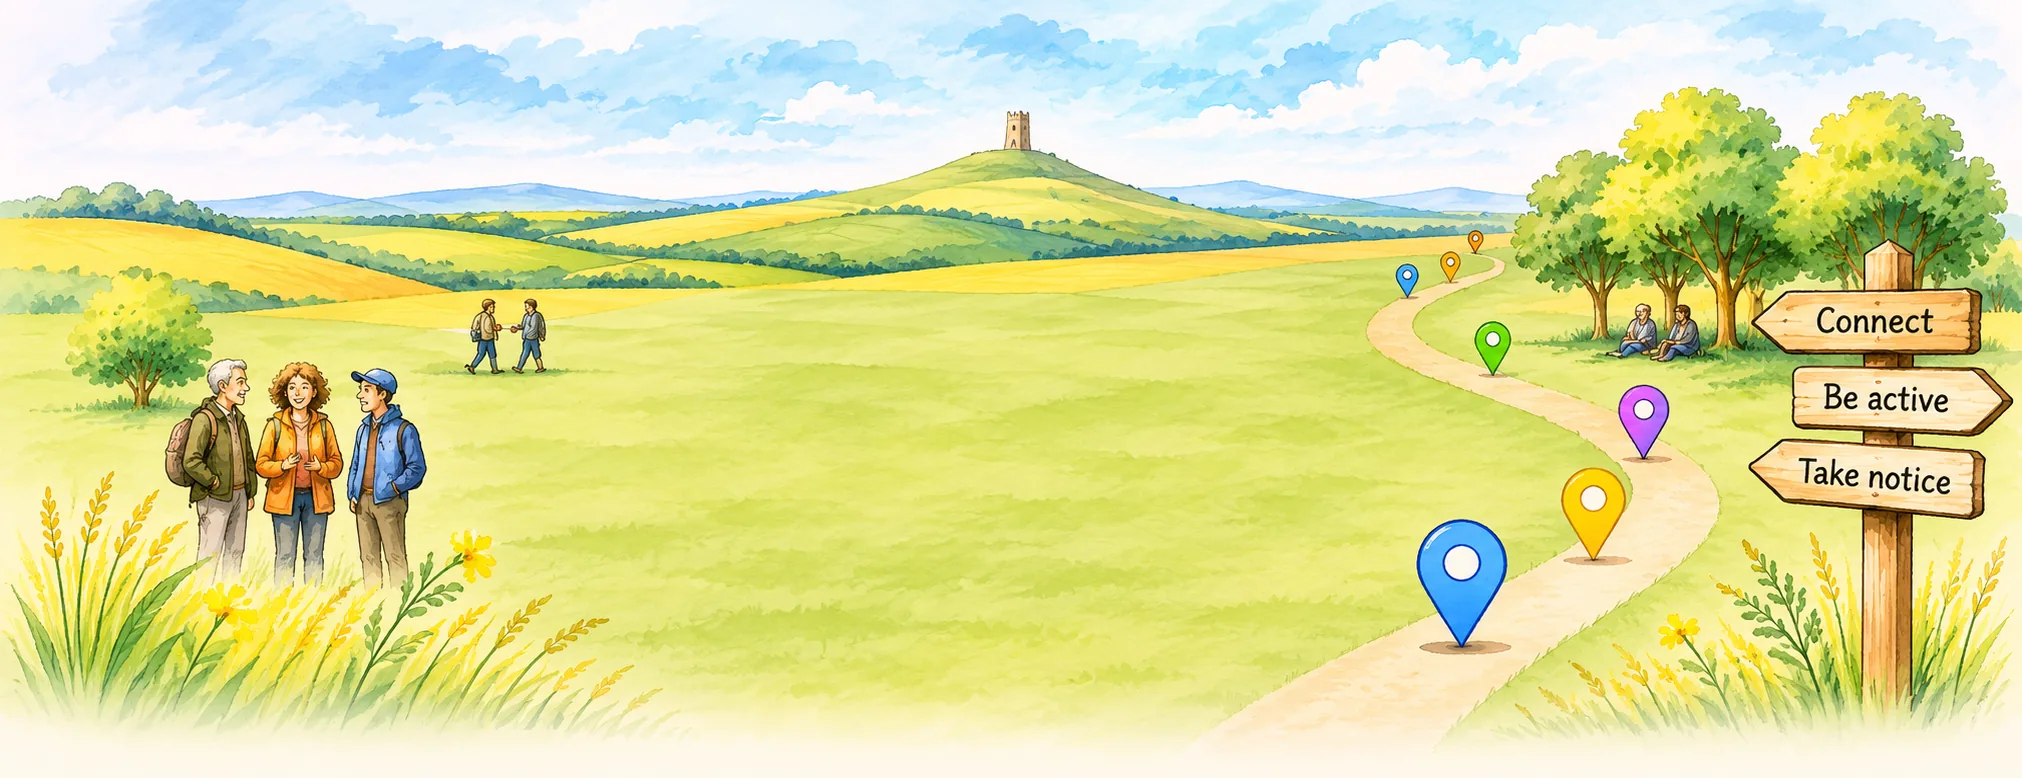
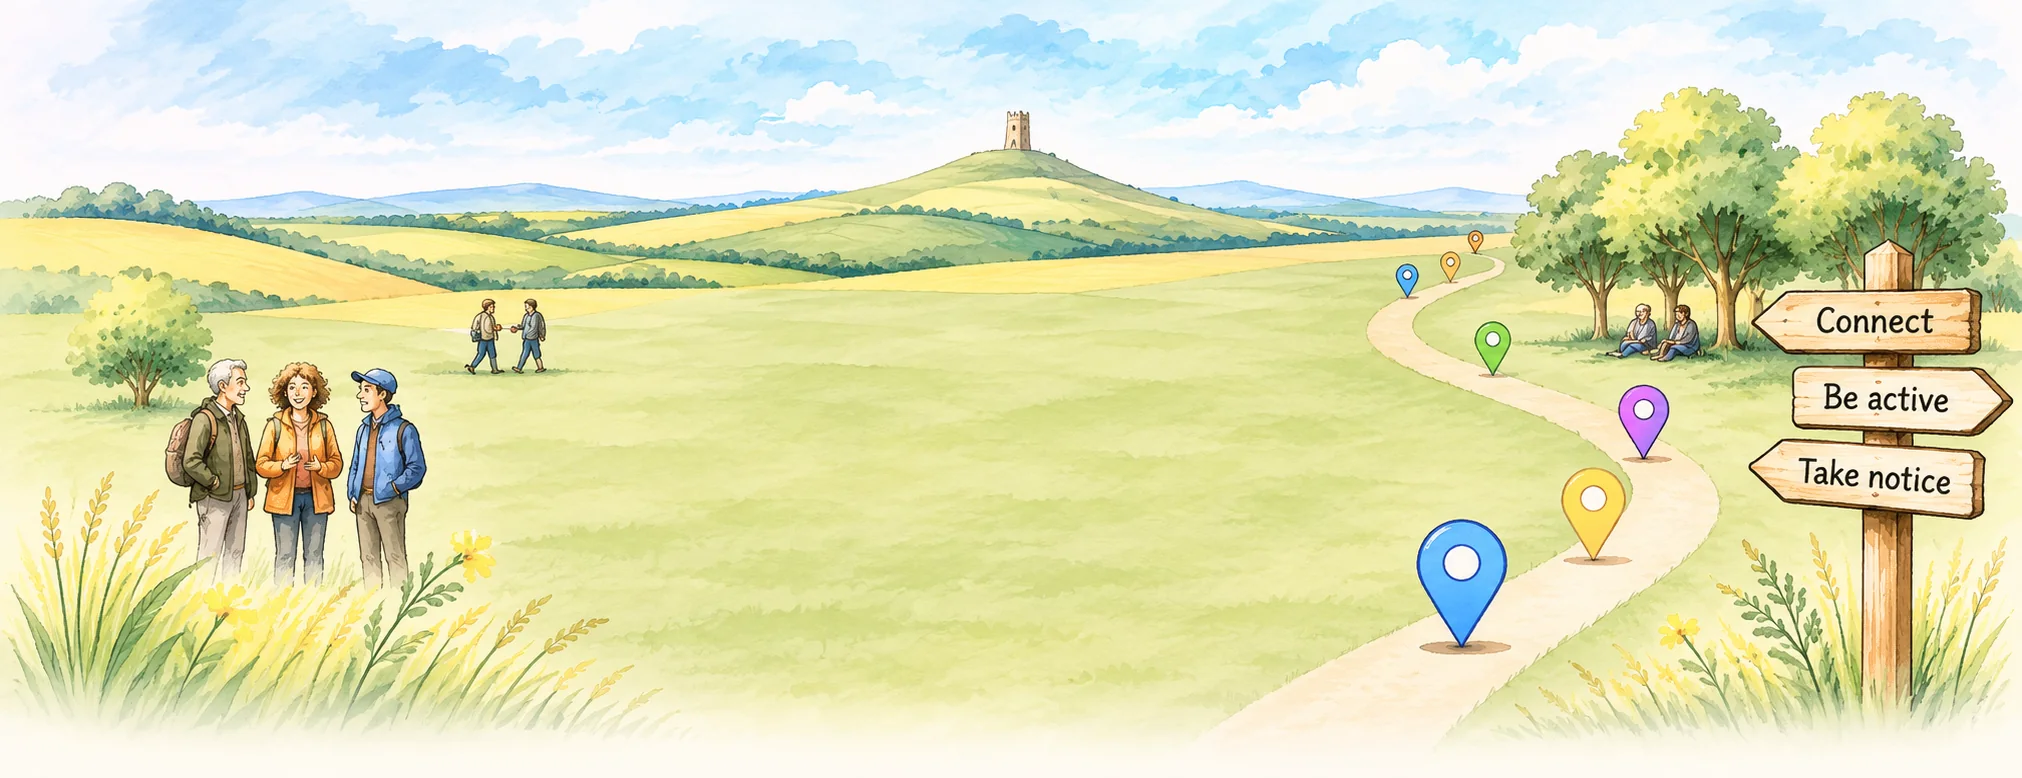
Next design: one palette across the landing page
Next design: one palette across the landing page and directory: the main picture 35% softer, a richer, warmer header strip for /next/ only (banner-next.webp; the live site keeps banner.webp), and one warm sage (--sage) for the filter boxes and the landing band

diff --git a/docs/next/about/index.html b/docs/next/about/index.html
@@ -1136,10 +1136,11 @@ html.short #mapwrap { height: 100vh; }
 }
 
 /* ---------- Colours: light cream page and header, darker cream cards with a warm outline ---------- */
-:root { --cream: #FFFCF7; --card: #F4EEE4; --edge: #CFC3B1; --line: #E6DED2; }
+:root { --cream: #FFFCF7; --card: #F4EEE4; --edge: #CFC3B1; --line: #E6DED2; --sage: #ECEFDC; }   /* (--sage: the warm meadow green of the panels: the filter boxes and the landing page's band, one colour) */
+:root { --strip: url("/assets/banner-next.webp"); }   /* (this design's header strip: the live site keeps banner.webp) */
 header.top { background: var(--cream); border-bottom: 0; }
 /* The filter boxes keep their green tint against the cream (a touch stronger than on white, which made them look grey) */
-.q, .toggle { background: #E7F0EA; }
+.q, .toggle { background: var(--sage); }
 .q.on { background: #FFFFFF; }
 #mapwrap { margin: 14px 0 16px; border: 1px solid var(--edge); border-radius: 16px; overflow: hidden; }
 #map { background: #F3EFE6; }
@@ -1478,7 +1479,7 @@ body.landing header.top, body.landing #hdr-home { display: none; }
 .htopic:hover { border-color: var(--b700); }
 .htopic svg { width: 17px; height: 17px; color: var(--b600); }
 /* The ways in */
-.hways { display: grid; grid-template-columns: repeat(4, minmax(0, 1fr)); column-gap: 12px; margin: 46px 0 0; padding: 34px max(24px, calc(50% - 680px)) 30px; background: linear-gradient(to bottom, var(--b50), #EEF3EC); border-radius: 50% 50% 0 0 / 28px 28px 0 0; }
+.hways { display: grid; grid-template-columns: repeat(4, minmax(0, 1fr)); column-gap: 12px; margin: 46px 0 0; padding: 34px max(24px, calc(50% - 680px)) 30px; background: var(--sage); border-radius: 50% 50% 0 0 / 28px 28px 0 0; }
 .hway { display: flex; gap: 14px; padding: 14px 18px; text-decoration: none; color: inherit; border-radius: 16px; transition: background 0.15s; }
 .hway:hover { background: rgba(47, 84, 65, 0.07); }
 .hway > svg { width: 34px; height: 34px; flex: none; color: var(--b600); margin-top: 2px; }
@@ -1617,7 +1618,7 @@ body.landing footer.help { padding-block: 14px calc(14px + env(safe-area-inset-b
   body.landing .crisis > div { display: none; }
   body.landing .crisis .exit { background: rgba(15, 23, 42, 0.82); border-color: transparent; padding: 7px 12px; font-size: 13px; }
   body.landing .hways { padding-bottom: 22px; }
-  body.landing .hways { box-shadow: 0 50vh 0 50vh #EEF3EC; }   /* (the sage band carries on to the foot of a tall window, as a footer: painted only, so the page doesn't grow) */
+  body.landing .hways { box-shadow: 0 50vh 0 50vh var(--sage); }   /* (the sage band carries on to the foot of a tall window, as a footer: painted only, so the page doesn't grow) */
 }
 .hway span span { display: block; max-width: 300px; text-wrap: balance; }   /* (each description on two even lines) */
 @media (min-width: 701px) and (max-height: 600px) { .hway span span { display: none; } }
@@ -3126,7 +3127,7 @@ function renderAbout() {
     </section>
     </div></div>
     <p class="small">Service information belongs to the providers listed. Map data © <a href="https://www.openstreetmap.org/copyright" target="_blank" rel="noopener">OpenStreetMap</a> contributors, © <a href="https://carto.com/attributions" target="_blank" rel="noopener">CARTO</a>.</p>
-    <p class="small" id="site-version">Version: next 2026-11-26 22:57</p>
+    <p class="small" id="site-version">Version: next 2026-11-26 23:46</p>
   </article>`;
 }
 /* ---------- Places: the town listings, as a tab of the directory ----------

diff --git a/docs/next/courses/index.html b/docs/next/courses/index.html
@@ -1136,10 +1136,11 @@ html.short #mapwrap { height: 100vh; }
 }
 
 /* ---------- Colours: light cream page and header, darker cream cards with a warm outline ---------- */
-:root { --cream: #FFFCF7; --card: #F4EEE4; --edge: #CFC3B1; --line: #E6DED2; }
+:root { --cream: #FFFCF7; --card: #F4EEE4; --edge: #CFC3B1; --line: #E6DED2; --sage: #ECEFDC; }   /* (--sage: the warm meadow green of the panels: the filter boxes and the landing page's band, one colour) */
+:root { --strip: url("/assets/banner-next.webp"); }   /* (this design's header strip: the live site keeps banner.webp) */
 header.top { background: var(--cream); border-bottom: 0; }
 /* The filter boxes keep their green tint against the cream (a touch stronger than on white, which made them look grey) */
-.q, .toggle { background: #E7F0EA; }
+.q, .toggle { background: var(--sage); }
 .q.on { background: #FFFFFF; }
 #mapwrap { margin: 14px 0 16px; border: 1px solid var(--edge); border-radius: 16px; overflow: hidden; }
 #map { background: #F3EFE6; }
@@ -1478,7 +1479,7 @@ body.landing header.top, body.landing #hdr-home { display: none; }
 .htopic:hover { border-color: var(--b700); }
 .htopic svg { width: 17px; height: 17px; color: var(--b600); }
 /* The ways in */
-.hways { display: grid; grid-template-columns: repeat(4, minmax(0, 1fr)); column-gap: 12px; margin: 46px 0 0; padding: 34px max(24px, calc(50% - 680px)) 30px; background: linear-gradient(to bottom, var(--b50), #EEF3EC); border-radius: 50% 50% 0 0 / 28px 28px 0 0; }
+.hways { display: grid; grid-template-columns: repeat(4, minmax(0, 1fr)); column-gap: 12px; margin: 46px 0 0; padding: 34px max(24px, calc(50% - 680px)) 30px; background: var(--sage); border-radius: 50% 50% 0 0 / 28px 28px 0 0; }
 .hway { display: flex; gap: 14px; padding: 14px 18px; text-decoration: none; color: inherit; border-radius: 16px; transition: background 0.15s; }
 .hway:hover { background: rgba(47, 84, 65, 0.07); }
 .hway > svg { width: 34px; height: 34px; flex: none; color: var(--b600); margin-top: 2px; }
@@ -1617,7 +1618,7 @@ body.landing footer.help { padding-block: 14px calc(14px + env(safe-area-inset-b
   body.landing .crisis > div { display: none; }
   body.landing .crisis .exit { background: rgba(15, 23, 42, 0.82); border-color: transparent; padding: 7px 12px; font-size: 13px; }
   body.landing .hways { padding-bottom: 22px; }
-  body.landing .hways { box-shadow: 0 50vh 0 50vh #EEF3EC; }   /* (the sage band carries on to the foot of a tall window, as a footer: painted only, so the page doesn't grow) */
+  body.landing .hways { box-shadow: 0 50vh 0 50vh var(--sage); }   /* (the sage band carries on to the foot of a tall window, as a footer: painted only, so the page doesn't grow) */
 }
 .hway span span { display: block; max-width: 300px; text-wrap: balance; }   /* (each description on two even lines) */
 @media (min-width: 701px) and (max-height: 600px) { .hway span span { display: none; } }
@@ -3126,7 +3127,7 @@ function renderAbout() {
     </section>
     </div></div>
     <p class="small">Service information belongs to the providers listed. Map data © <a href="https://www.openstreetmap.org/copyright" target="_blank" rel="noopener">OpenStreetMap</a> contributors, © <a href="https://carto.com/attributions" target="_blank" rel="noopener">CARTO</a>.</p>
-    <p class="small" id="site-version">Version: next 2026-11-26 22:57</p>
+    <p class="small" id="site-version">Version: next 2026-11-26 23:46</p>
   </article>`;
 }
 /* ---------- Places: the town listings, as a tab of the directory ----------

diff --git a/docs/next/directory/index.html b/docs/next/directory/index.html
@@ -1136,10 +1136,11 @@ html.short #mapwrap { height: 100vh; }
 }
 
 /* ---------- Colours: light cream page and header, darker cream cards with a warm outline ---------- */
-:root { --cream: #FFFCF7; --card: #F4EEE4; --edge: #CFC3B1; --line: #E6DED2; }
+:root { --cream: #FFFCF7; --card: #F4EEE4; --edge: #CFC3B1; --line: #E6DED2; --sage: #ECEFDC; }   /* (--sage: the warm meadow green of the panels: the filter boxes and the landing page's band, one colour) */
+:root { --strip: url("/assets/banner-next.webp"); }   /* (this design's header strip: the live site keeps banner.webp) */
 header.top { background: var(--cream); border-bottom: 0; }
 /* The filter boxes keep their green tint against the cream (a touch stronger than on white, which made them look grey) */
-.q, .toggle { background: #E7F0EA; }
+.q, .toggle { background: var(--sage); }
 .q.on { background: #FFFFFF; }
 #mapwrap { margin: 14px 0 16px; border: 1px solid var(--edge); border-radius: 16px; overflow: hidden; }
 #map { background: #F3EFE6; }
@@ -1478,7 +1479,7 @@ body.landing header.top, body.landing #hdr-home { display: none; }
 .htopic:hover { border-color: var(--b700); }
 .htopic svg { width: 17px; height: 17px; color: var(--b600); }
 /* The ways in */
-.hways { display: grid; grid-template-columns: repeat(4, minmax(0, 1fr)); column-gap: 12px; margin: 46px 0 0; padding: 34px max(24px, calc(50% - 680px)) 30px; background: linear-gradient(to bottom, var(--b50), #EEF3EC); border-radius: 50% 50% 0 0 / 28px 28px 0 0; }
+.hways { display: grid; grid-template-columns: repeat(4, minmax(0, 1fr)); column-gap: 12px; margin: 46px 0 0; padding: 34px max(24px, calc(50% - 680px)) 30px; background: var(--sage); border-radius: 50% 50% 0 0 / 28px 28px 0 0; }
 .hway { display: flex; gap: 14px; padding: 14px 18px; text-decoration: none; color: inherit; border-radius: 16px; transition: background 0.15s; }
 .hway:hover { background: rgba(47, 84, 65, 0.07); }
 .hway > svg { width: 34px; height: 34px; flex: none; color: var(--b600); margin-top: 2px; }
@@ -1617,7 +1618,7 @@ body.landing footer.help { padding-block: 14px calc(14px + env(safe-area-inset-b
   body.landing .crisis > div { display: none; }
   body.landing .crisis .exit { background: rgba(15, 23, 42, 0.82); border-color: transparent; padding: 7px 12px; font-size: 13px; }
   body.landing .hways { padding-bottom: 22px; }
-  body.landing .hways { box-shadow: 0 50vh 0 50vh #EEF3EC; }   /* (the sage band carries on to the foot of a tall window, as a footer: painted only, so the page doesn't grow) */
+  body.landing .hways { box-shadow: 0 50vh 0 50vh var(--sage); }   /* (the sage band carries on to the foot of a tall window, as a footer: painted only, so the page doesn't grow) */
 }
 .hway span span { display: block; max-width: 300px; text-wrap: balance; }   /* (each description on two even lines) */
 @media (min-width: 701px) and (max-height: 600px) { .hway span span { display: none; } }
@@ -3126,7 +3127,7 @@ function renderAbout() {
     </section>
     </div></div>
     <p class="small">Service information belongs to the providers listed. Map data © <a href="https://www.openstreetmap.org/copyright" target="_blank" rel="noopener">OpenStreetMap</a> contributors, © <a href="https://carto.com/attributions" target="_blank" rel="noopener">CARTO</a>.</p>
-    <p class="small" id="site-version">Version: next 2026-11-26 22:57</p>
+    <p class="small" id="site-version">Version: next 2026-11-26 23:46</p>
   </article>`;
 }
 /* ---------- Places: the town listings, as a tab of the directory ----------

diff --git a/docs/next/index.html b/docs/next/index.html
@@ -1136,10 +1136,11 @@ html.short #mapwrap { height: 100vh; }
 }
 
 /* ---------- Colours: light cream page and header, darker cream cards with a warm outline ---------- */
-:root { --cream: #FFFCF7; --card: #F4EEE4; --edge: #CFC3B1; --line: #E6DED2; }
+:root { --cream: #FFFCF7; --card: #F4EEE4; --edge: #CFC3B1; --line: #E6DED2; --sage: #ECEFDC; }   /* (--sage: the warm meadow green of the panels: the filter boxes and the landing page's band, one colour) */
+:root { --strip: url("/assets/banner-next.webp"); }   /* (this design's header strip: the live site keeps banner.webp) */
 header.top { background: var(--cream); border-bottom: 0; }
 /* The filter boxes keep their green tint against the cream (a touch stronger than on white, which made them look grey) */
-.q, .toggle { background: #E7F0EA; }
+.q, .toggle { background: var(--sage); }
 .q.on { background: #FFFFFF; }
 #mapwrap { margin: 14px 0 16px; border: 1px solid var(--edge); border-radius: 16px; overflow: hidden; }
 #map { background: #F3EFE6; }
@@ -1478,7 +1479,7 @@ body.landing header.top, body.landing #hdr-home { display: none; }
 .htopic:hover { border-color: var(--b700); }
 .htopic svg { width: 17px; height: 17px; color: var(--b600); }
 /* The ways in */
-.hways { display: grid; grid-template-columns: repeat(4, minmax(0, 1fr)); column-gap: 12px; margin: 46px 0 0; padding: 34px max(24px, calc(50% - 680px)) 30px; background: linear-gradient(to bottom, var(--b50), #EEF3EC); border-radius: 50% 50% 0 0 / 28px 28px 0 0; }
+.hways { display: grid; grid-template-columns: repeat(4, minmax(0, 1fr)); column-gap: 12px; margin: 46px 0 0; padding: 34px max(24px, calc(50% - 680px)) 30px; background: var(--sage); border-radius: 50% 50% 0 0 / 28px 28px 0 0; }
 .hway { display: flex; gap: 14px; padding: 14px 18px; text-decoration: none; color: inherit; border-radius: 16px; transition: background 0.15s; }
 .hway:hover { background: rgba(47, 84, 65, 0.07); }
 .hway > svg { width: 34px; height: 34px; flex: none; color: var(--b600); margin-top: 2px; }
@@ -1617,7 +1618,7 @@ body.landing footer.help { padding-block: 14px calc(14px + env(safe-area-inset-b
   body.landing .crisis > div { display: none; }
   body.landing .crisis .exit { background: rgba(15, 23, 42, 0.82); border-color: transparent; padding: 7px 12px; font-size: 13px; }
   body.landing .hways { padding-bottom: 22px; }
-  body.landing .hways { box-shadow: 0 50vh 0 50vh #EEF3EC; }   /* (the sage band carries on to the foot of a tall window, as a footer: painted only, so the page doesn't grow) */
+  body.landing .hways { box-shadow: 0 50vh 0 50vh var(--sage); }   /* (the sage band carries on to the foot of a tall window, as a footer: painted only, so the page doesn't grow) */
 }
 .hway span span { display: block; max-width: 300px; text-wrap: balance; }   /* (each description on two even lines) */
 @media (min-width: 701px) and (max-height: 600px) { .hway span span { display: none; } }
@@ -3126,7 +3127,7 @@ function renderAbout() {
     </section>
     </div></div>
     <p class="small">Service information belongs to the providers listed. Map data © <a href="https://www.openstreetmap.org/copyright" target="_blank" rel="noopener">OpenStreetMap</a> contributors, © <a href="https://carto.com/attributions" target="_blank" rel="noopener">CARTO</a>.</p>
-    <p class="small" id="site-version">Version: next 2026-11-26 22:57</p>
+    <p class="small" id="site-version">Version: next 2026-11-26 23:46</p>
   </article>`;
 }
 /* ---------- Places: the town listings, as a tab of the directory ----------

diff --git a/build/next/next.css b/build/next/next.css
@@ -36,10 +36,11 @@
 }
 
 /* ---------- Colours: light cream page and header, darker cream cards with a warm outline ---------- */
-:root { --cream: #FFFCF7; --card: #F4EEE4; --edge: #CFC3B1; --line: #E6DED2; }
+:root { --cream: #FFFCF7; --card: #F4EEE4; --edge: #CFC3B1; --line: #E6DED2; --sage: #ECEFDC; }   /* (--sage: the warm meadow green of the panels: the filter boxes and the landing page's band, one colour) */
+:root { --strip: url("/assets/banner-next.webp"); }   /* (this design's header strip: the live site keeps banner.webp) */
 header.top { background: var(--cream); border-bottom: 0; }
 /* The filter boxes keep their green tint against the cream (a touch stronger than on white, which made them look grey) */
-.q, .toggle { background: #E7F0EA; }
+.q, .toggle { background: var(--sage); }
 .q.on { background: #FFFFFF; }
 #mapwrap { margin: 14px 0 16px; border: 1px solid var(--edge); border-radius: 16px; overflow: hidden; }
 #map { background: #F3EFE6; }
@@ -378,7 +379,7 @@ body.landing header.top, body.landing #hdr-home { display: none; }
 .htopic:hover { border-color: var(--b700); }
 .htopic svg { width: 17px; height: 17px; color: var(--b600); }
 /* The ways in */
-.hways { display: grid; grid-template-columns: repeat(4, minmax(0, 1fr)); column-gap: 12px; margin: 46px 0 0; padding: 34px max(24px, calc(50% - 680px)) 30px; background: linear-gradient(to bottom, var(--b50), #EEF3EC); border-radius: 50% 50% 0 0 / 28px 28px 0 0; }
+.hways { display: grid; grid-template-columns: repeat(4, minmax(0, 1fr)); column-gap: 12px; margin: 46px 0 0; padding: 34px max(24px, calc(50% - 680px)) 30px; background: var(--sage); border-radius: 50% 50% 0 0 / 28px 28px 0 0; }
 .hway { display: flex; gap: 14px; padding: 14px 18px; text-decoration: none; color: inherit; border-radius: 16px; transition: background 0.15s; }
 .hway:hover { background: rgba(47, 84, 65, 0.07); }
 .hway > svg { width: 34px; height: 34px; flex: none; color: var(--b600); margin-top: 2px; }
@@ -517,7 +518,7 @@ body.landing footer.help { padding-block: 14px calc(14px + env(safe-area-inset-b
   body.landing .crisis > div { display: none; }
   body.landing .crisis .exit { background: rgba(15, 23, 42, 0.82); border-color: transparent; padding: 7px 12px; font-size: 13px; }
   body.landing .hways { padding-bottom: 22px; }
-  body.landing .hways { box-shadow: 0 50vh 0 50vh #EEF3EC; }   /* (the sage band carries on to the foot of a tall window, as a footer: painted only, so the page doesn't grow) */
+  body.landing .hways { box-shadow: 0 50vh 0 50vh var(--sage); }   /* (the sage band carries on to the foot of a tall window, as a footer: painted only, so the page doesn't grow) */
 }
 .hway span span { display: block; max-width: 300px; text-wrap: balance; }   /* (each description on two even lines) */
 @media (min-width: 701px) and (max-height: 600px) { .hway span span { display: none; } }
